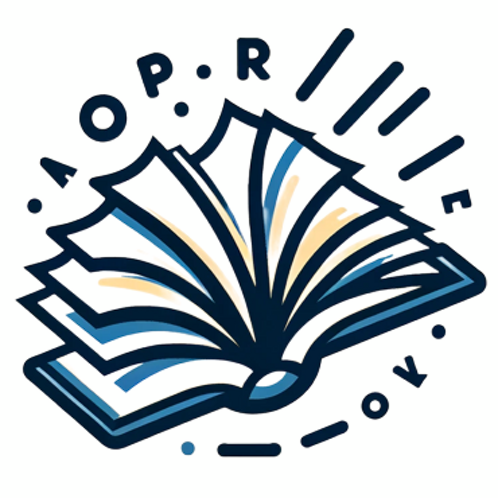
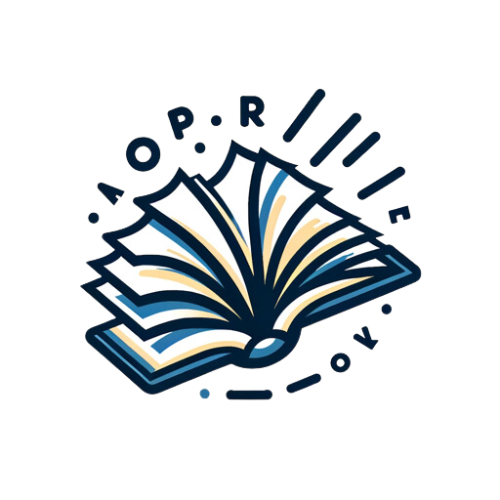
fix

diff --git a/lib/widgets/word_search.dart b/lib/widgets/word_search.dart
@@ -16,8 +16,8 @@ class WordSearch extends StatelessWidget {
           mainAxisAlignment: MainAxisAlignment.center,
           children: <Widget>[
             SizedBox(
-              width: 100.0,
-              height: 100.0,
+              width: 200.0,
+              height: 200.0,
               child: Image.asset('assets/icon.png'),
             ),
             const SizedBox(height: 32.0),

diff --git a/lib/models/word.dart b/lib/models/word.dart
@@ -2,13 +2,13 @@ class Word {
   final String word;
   final List<String> notes;
   int status;
-  final DateTime addedOn = DateTime.now();
+  final DateTime addedOn;
 
   Word(
       {required this.word,
       required this.notes,
       this.status = 0,
-      required DateTime addedOn});
+      required this.addedOn});
 
   factory Word.fromJson(Map<String, dynamic> json) {
     return Word(
